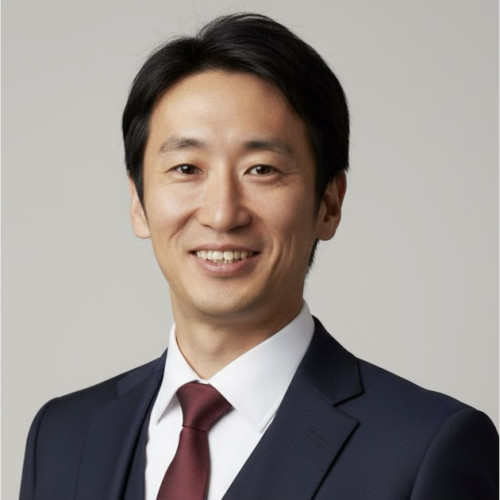
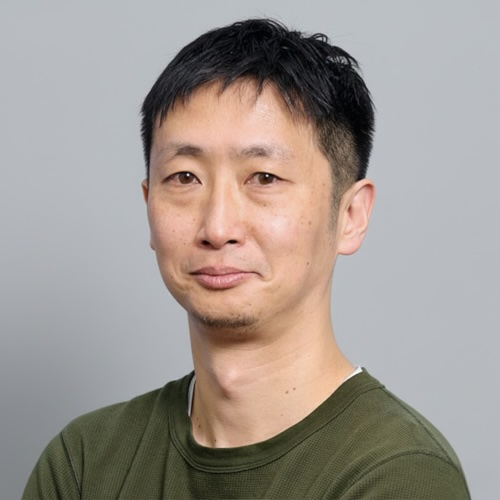
Added CFW

diff --git a/_pages/calls/workshops-tutorials.md b/_pages/calls/workshops-tutorials.md
@@ -1,0 +1,82 @@
+---
+title: Call for Workshop and Tutorial Proposals
+layout: single
+permalink: /calls/workshops_tutorials/
+sidebar:
+    nav: "calls"
+toc: true
+toc_sticky: true
+toc_icon: "cog"
+---
+
+The 27th Annual Meeting of the Special Interest Group on Discourse and Dialogue (SIGDIAL 2026) will be held in Atlanta, Georgia. 
+
+We are pleased to announce the call for workshop and tutorial proposals for SIGDIAL 2026. We encourage proposals on any topic of interest to the discourse and dialogue communities. This program aims to offer new perspectives and foster collaboration among researchers working on related topics. We particularly welcome sessions that bridge the gap between sub-communities within SIGDIAL.
+
+## Important Dates
+
+All deadlines are 11:59PM UTC-12:00 ("anywhere on Earth").
+
+<style>
+.dates-table { font-size: .9em; }
+.dates-table del { color: #888; }
+</style>
+
+| March 2, 2026    | Proposal submission deadline |
+| March 16, 2026   | Proposal notification |
+| March 30, 2026   | Workshop/tutorial initial website |
+| April 6, 2026    | First call-for-papers (if applicable) |
+| July 13-15, 2026 | Main conference |
+| July 16-17, 2026 | Workshops and tutorials |
+{: .dates-table}
+
+## Topics of Interest
+
+Topics include all aspects related to Dialogue and Discourse, including (but not limited to):
+
+* Large Language Models (LLMs) and Agentic Frameworks
+* Adversarial Methods and Reinforcement Learning
+* Explainable, Responsible, and Ethical AI
+* Evaluation, Annotation, and Resources
+* Interactive, Multimodal, Situated, and Incremental Systems
+* Applications of Dialogue Systems and Conversational AI
+
+## Format
+
+Proposals may be for 0.5 day, 1 day, 1.5 days, or 2 days sessions. We encourage interactive and diverse formats, such as:
+
+* Oral and/or poster presentations
+* Panel discussions
+* Hackathons or shared tasks
+* A combination of the above
+
+Workshop organizers will be responsible for soliciting, reviewing, and selecting papers or abstracts. Workshop organizers may choose to publish accepted papers in separate proceedings.
+
+## Submission Guidelines
+
+Workshop or tutorial proposals should be **2–4 pages** and must include the following:
+
+1. **Title and Type**: Specify if it is a Workshop or Tutorial.
+1. **Organizers**: List of organizers and their email addresses.
+1. **Sponsors**>: List of sponsors and funding amounts (if any).
+1. **Summary**: A brief overview of the topic.
+1. **Motivation**: Theoretical interest and/or application context.
+1. **Logistics**: Preferred duration and estimated number of attendees.
+1. **Format**: Requested session type(s) (e.g., poster, panel, hackathon).
+
+Proposals will be reviewed jointly by the general chair and program co-chairs. Please submit your proposal using the following form: [https://forms.gle/6xPaWyAGn15ehnkR9](https://forms.gle/6xPaWyAGn15ehnkR9).
+
+## Reference Sessions
+
+Proposers may wish to review topics from recent SIGDIAL meetings for inspiration:
+
+* [YRRSDS 2025](https://sites.google.com/view/yrrsds2025/): Workshop on Spoken Dialogue Systems for PhDs, PostDocs & New Researchers
+* [DSTC 2025](https://dstc12.dstc.community): Dialog System Technology Challenge
+* [Automin 2025](https://ufal.github.io/automin-2025/): Automatic Minuting Shared Task
+* [SDS4CA 2024](http://www.sap.ist.i.kyoto-u.ac.jp/seminar/sds4ca/): Spoken Dialogue Systems for Cybernetic Avatars
+* [CS4OA 2023](https://sites.google.com/view/cs4oa): Workshop on Counter Speech for Online Abuse
+* [PracticalD2T 2023](https://practicald2t.github.io): Workshop on Practical LLM-assisted Data-to-Text Generation
+* [TamingLLM 2023](https://ctrlnlg.github.io): Workshop on Taming Large Language Models: Controllability in the era of Interactive Assistants
+* [MM-NLG 2023](https://synalp.gitlabpages.inria.fr/mmnlg2023/): Workshop on Multimodal, Multilingual Natural Language Generation
+* [ICARD 2023](https://sites.google.com/colby.edu/sigdial23-ws-autism-research/): Connecting Multiple Disciplines to AI Techniques in Interaction-centric Autism Research and Diagnosis
+* [SDSData 2023](https://icsresearch.ucd.ie/sigDial23/web/): Designing Divergent Agent Tasks for SDS Data Collection

diff --git a/_pages/home.md b/_pages/home.md
@@ -22,11 +22,12 @@ The first call-of-papers is announced
 .news-table tr td:nth-child(1) { font-weight: bold; width: 10em; }
 </style>
 
-| 2025-12-05 | The first [call-of-papers](/calls/main_conference/) is announced. |
+| 2026-01-23 | The [Call for Workshops & Tutorials](/calls/workshops_tutorials/) is announced. |
+| 2025-12-05 | The first [Call for Papers](/calls/main_conference/) is announced. |
 | 2025-11-01 | The official SIGDIAL 2026 website is launched. |
 {: .news-table}
 
-## Conference Schedule
+## Schedule
 
 <style>
 .dates-table { font-size: .8em; }
@@ -34,6 +35,6 @@ The first call-of-papers is announced
 .dates-table del { color: #888; }
 </style>
 
-| July 13-15, 2026 | SIGDIAL 2026 |
-| July 16-17, 2026 | YRRSDS and satellite workshops |
+| July 13-15, 2026 | Main conference |
+| July 16-17, 2026 | Workshops and tutorials |
 {: .dates-table}

diff --git a/_pages/calls/main-conference.md b/_pages/calls/main-conference.md
@@ -29,7 +29,7 @@ All deadlines are 11:59PM UTC-12:00 ("anywhere on Earth").
 | June 8, 2025     | Final camera-ready submission deadline |
 | June 15, 2025    | Early registration deadline |
 | July 13-15, 2026 | SIGDIAL 2026 |
-| July 16-17, 2026 | YRRSDS and satellite workshops |
+| July 16-17, 2026 | Workshops and tutorials |
 {: .dates-table}
 
 

diff --git a/_pages/organizers.md b/_pages/organizers.md
@@ -29,7 +29,7 @@ sidebar:
    name="Kotaro Funakoshi"
    picture="/assets/images/people/kotaro_funakoshi.jpg"
    site="https://www.lr.pi.titech.ac.jp/wp_en/"
-   institution="Tokyo Institute of Technology (Japan)"
+   institution="Institute of Science Tokyo (Japan)"
 %}
 
 <h2>Local Chairs</h2>
